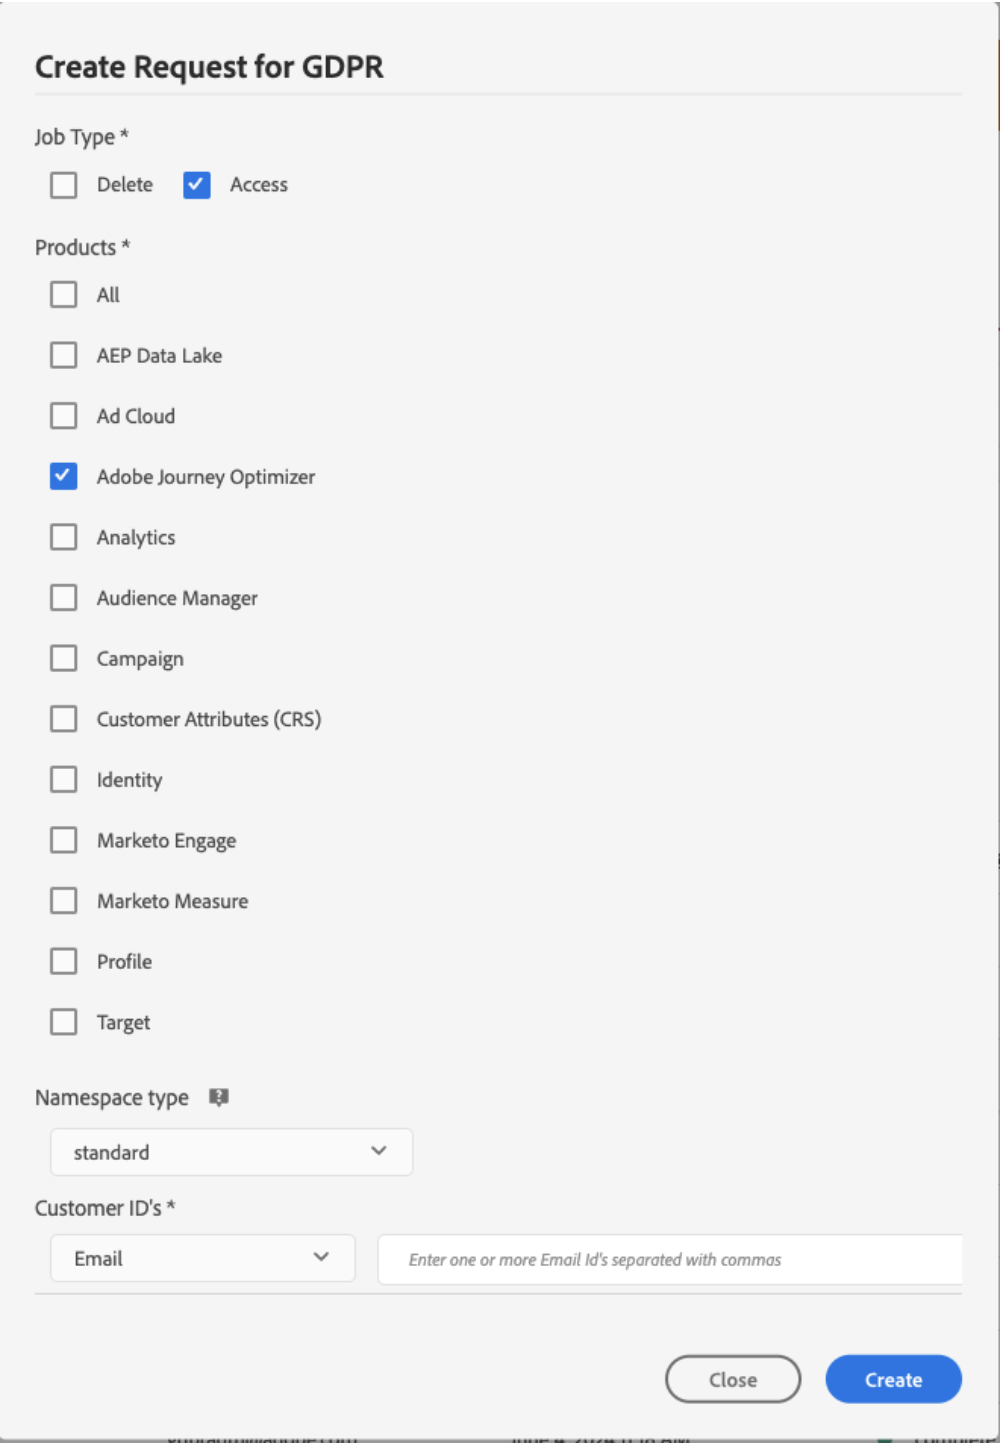
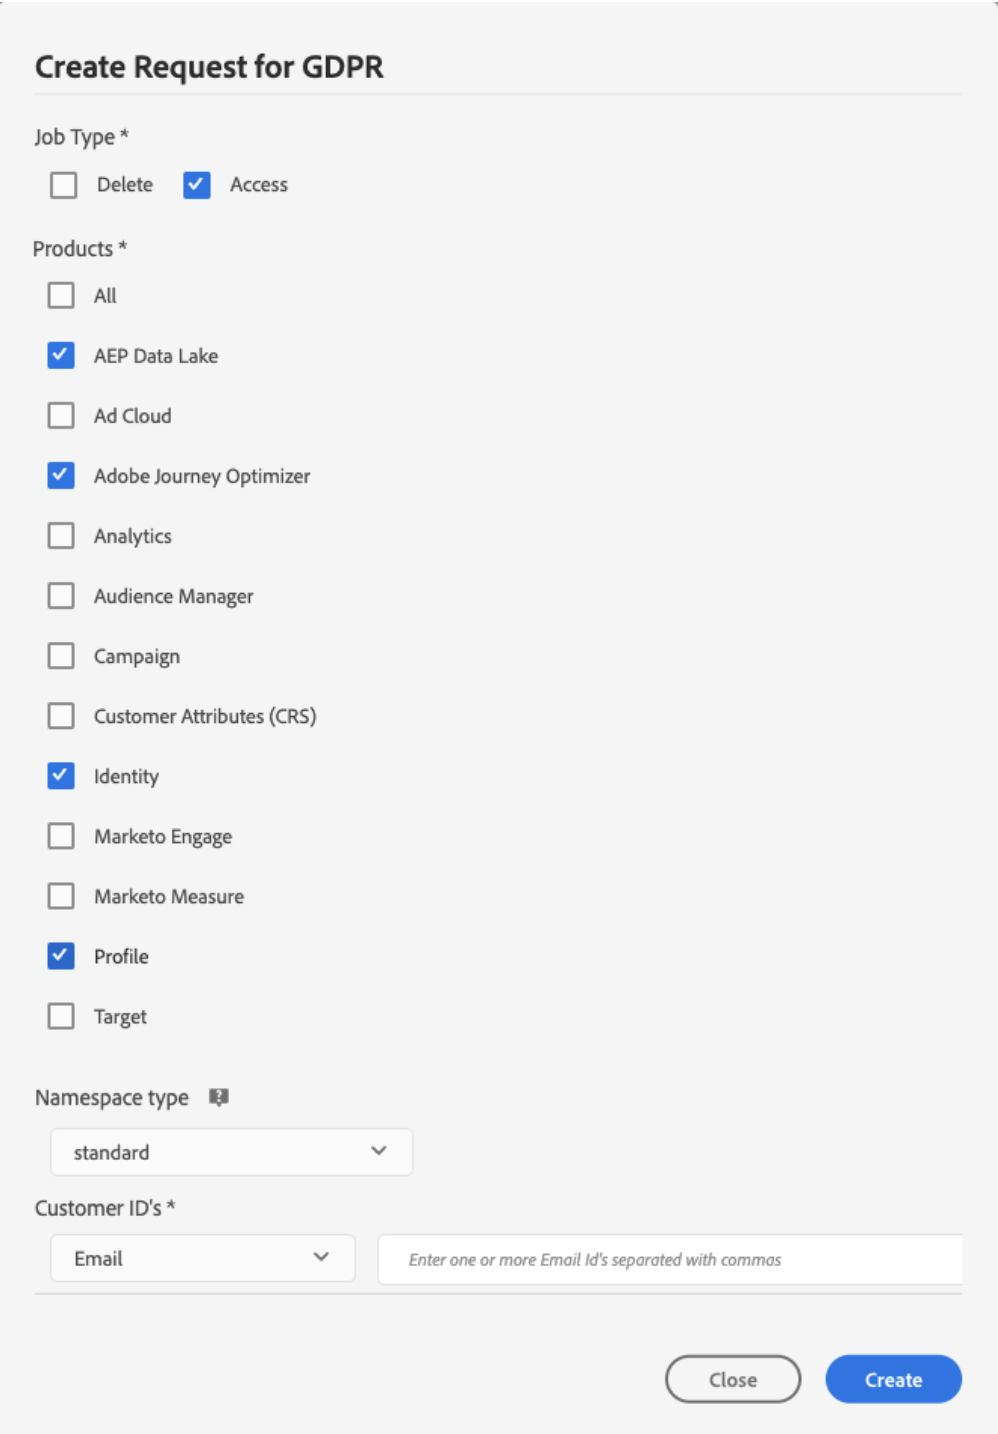
DOCAC-12036 - Privacy Requests update

diff --git a/help/admin/privacy-requests.md b/help/admin/privacy-requests.md
@@ -1,51 +1,49 @@
 ---
 audience: end-user
-title: Get started with compositions
-description: Learn how to start with compositions
+title: Privacy requests
+description: Learn how to manage privacy requests through Privacy Service
 exl-id: 92142d16-3483-4f6e-afde-9f88d5d7d1c4
 ---
 # Privacy requests {#track-changes}
 
 <!--TO UPDATE WITH ANSWERS FROM DOCAC-12036-->
 
-Once you created a composition, the resulting audiences are saved into Adobe Experience Platform. You can then make privacy requests to access and/or delete profile data corresponding to these audiences through Adobe Experience Platform **Privacy Service**, which provides a RESTful API and user interface to help you manage customer data requests.
+Once you created a composition, the resulting audiences are saved into Adobe Experience Platform. You can then make privacy requests to access and/or delete profile data corresponding to these audiences through Adobe Experience Platform **Privacy Service**, which provides a user interface and RESTful API to help you manage customer data requests.
 
 With Privacy Service, you can submit requests to access and delete personal customer data from Adobe Experience Cloud applications, facilitating automated compliance with legal and organizational privacy regulations.
 
-Privacy requests can be created and managed from the **[!UICONTROL Requests]** menu.<!--TBC in FAC-->
+Privacy requests can be created and managed from the **[!UICONTROL Requests]** menu.
 
 ![](assets/requests.png)<!--replace with screenshot specific to FAC if any)-->
 
-For more information on the Privacy Service and how to create and manage privacy requests, refer to Adobe Experience Platform documentation:
+For more information on the Privacy Service and how to create and manage privacy requests, refer to the [Adobe Experience Platform documentation](https://experienceleague.adobe.com/docs/experience-platform/privacy/home.html){target="_blank"}.
 
-* [Privacy Service overview](https://experienceleague.adobe.com/docs/experience-platform/privacy/home.html){target="_blank"}
-* [Managing privacy jobs in the Privacy Service UI](https://experienceleague.adobe.com/docs/experience-platform/privacy/ui/user-guide.html){target="_blank"}
-* [Privacy Service API Guide](https://experienceleague.adobe.com/en/docs/experience-platform/privacy/api/overview){target="_blank"}
+<!--* [Managing privacy jobs in the Privacy Service UI](https://experienceleague.adobe.com/docs/experience-platform/privacy/ui/user-guide.html){target="_blank"}
+* [Privacy Service API Guide](https://experienceleague.adobe.com/en/docs/experience-platform/privacy/api/overview){target="_blank"}-->
 
-## Managing individual data privacy requests that you can send to Adobe Adobe Federated Audience Composition {#data-privacy-requests}
+## Manage individual data privacy requests {#data-privacy-requests}
 
-You can submit individual requests to access and delete consumer data from Adobe Adobe Federated Audience Composition in two ways:
+You can submit individual requests to access and delete consumer data from Adobe Federated Audience Composition in two ways:
 
-* Through the **Privacy Service UI**. See the documentation [here](https://experienceleague.adobe.com/en/docs/experience-platform/privacy/ui/user-guide#_blank).
-* Through the **Privacy Service API**. See the documentation [here](https://developer.adobe.com/experience-platform-apis/references/privacy-service/#_blank) and API information [here](https://developer.adobe.com/experience-platform-apis/#_blank).
+* Through the **Privacy Service UI**. [Learn more](https://experienceleague.adobe.com/docs/experience-platform/privacy/ui/user-guide.html){target="_blank"}
+* Through the **Privacy Service API**. [Learn more](https://experienceleague.adobe.com/en/docs/experience-platform/privacy/api/overview){target="_blank"}
+<!--More information [here](https://developer.adobe.com/experience-platform-apis/references/privacy-service/#_blank) and API information [here](https://developer.adobe.com/experience-platform-apis/#_blank).-->
 
 The Privacy Service supports two types of requests: **data access** and **data deletion**.
 
 >[!NOTE]
 >
->To make privacy requests for Adobe Journey Optimizer, refer to this [guide]. If you also plan to make privacy requests for the Platform data lake, refer to this [guide](https://experienceleague.adobe.com/en/docs/experience-platform/catalog/privacy){target="_blank"} in addition to this tutorial. For Real time customer profile, please refer to this [guide](https://experienceleague.adobe.com/en/docs/experience-platform/profile/privacy){target="_blank"} and for Identity service, please refer to this [guide](https://experienceleague.adobe.com/en/docs/experience-platform/identity/privacy){target="_blank"}. For delete and access requests you need to call these individual systems to make sure the requests are handled by each of them. Making a privacy request to Adobe Journey Optimizer will not remove data from all these systems.
+>To make privacy requests for Adobe Journey Optimizer, refer to this [guide](https://experienceleague.adobe.com/en/docs/journey-optimizer/using/privacy/requests){target="_blank"}.
 
-For **access requests**, specify "Adobe Federated Audience Composition"?? from the UI (or "FAC" as a product code in the API).
+<!--If you also plan to make privacy requests for the Platform data lake, refer to this [guide](https://experienceleague.adobe.com/en/docs/experience-platform/catalog/privacy){target="_blank"} in addition to this tutorial. For Real time customer profile, please refer to this [guide](https://experienceleague.adobe.com/en/docs/experience-platform/profile/privacy){target="_blank"} and for Identity service, please refer to this [guide](https://experienceleague.adobe.com/en/docs/experience-platform/identity/privacy){target="_blank"}. For delete and access requests you need to call these individual systems to make sure the requests are handled by each of them. Making a privacy request to Adobe Journey Optimizer will not remove data from all these systems.-->
 
-For **delete requests**, in addition to the "Adobe Federated Audience Composition" request, you must also submit delete requests to three upstream services to prevent Federated Audience Composition from reinjecting the deleted data. If these upstream services are not specified, the "Adobe Federated Audience Composition" request will remain in the "processing" state until delete requests for the upstream services are created.
+For **access requests** and **delete requests**, specify the three following services from the UI:
 
-The three upstream services are:
+* Profile (product code: "profileService" in the API)
+* AEP Data Lake (product code: "AdobeCloudPlatform" in the API)
+* Identity (product code: "identity" in the API)
 
-* Profile (product code: "profileService")
-* AEP Data Lake (product code: "AdobeCloudPlatform")
-* Identity (product code: "identity")
-
-## How to Create Access and Delete Requests
+## Create Access and Delete requests
 
 ### Prerequisites
 
@@ -54,7 +52,7 @@ To make requests to Access and Delete data for Adobe Federated Audience Composit
 * an Adobe organization ID
 * an Identity identifier of the person you want to act on and the corresponding namespace(s). For more information about identity namespaces Experience Platform, see the [identity namespace overview](https://experienceleague.adobe.com/en/docs/experience-platform/identity/features/namespaces).
 
-### Required field values in Adobe Adobe Federated Audience Composition for API requests
+### Required field values for API requests
 
 ```json
 "companyContexts":
@@ -70,7 +68,6 @@ To make requests to Access and Delete data for Adobe Federated Audience Composit
         "value": <Data Subject's Identity Identifier>
 
 "include":
-    FAC (which is the Adobe product code for Adobe Federated Audience Composition)
     profileService (product code for Profile)
     AdobeCloudPlatform (product code for AEP Data Lake)
     identity (product code for Identity)
@@ -80,7 +77,7 @@ To make requests to Access and Delete data for Adobe Federated Audience Composit
 ```
 
 
-### GDPR Access Request example:
+### GDPR Access request example
 
 From the UI:
 
@@ -118,7 +115,7 @@ Through the API:
       }
    ],
    "include":[
-      "CJM"
+    "profileService", "AdobeCloudPlatform", "identity"
    ],
    "regulation":"gdpr"
 }
@@ -161,7 +158,7 @@ Through the API:
 }
 ```
 
-### GDPR Delete Request example:
+### GDPR Delete request example
 
 From the UI:
 
@@ -199,7 +196,7 @@ Through the API:
     }
   ],
   "include": [
-    "CJM", "profileService", "AdobeCloudPlatform", "identity"
+    "profileService", "AdobeCloudPlatform", "identity"
   ],
   "regulation": "gdpr"
 }
